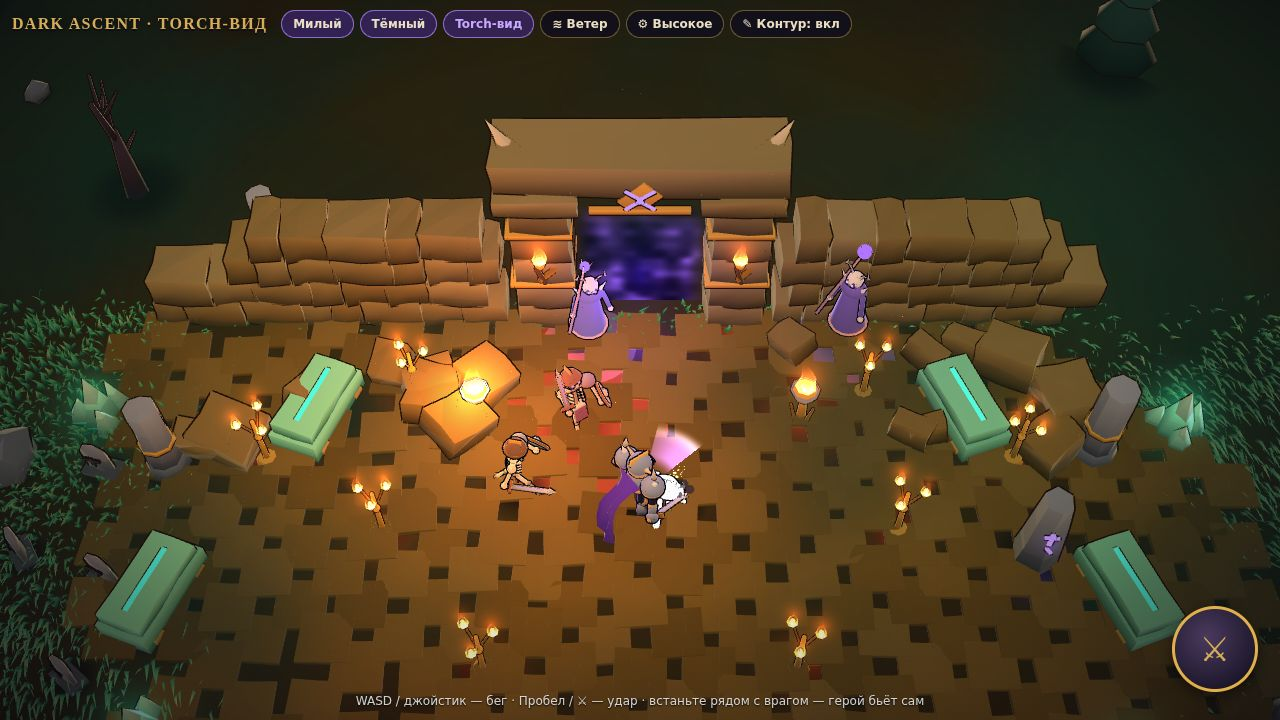
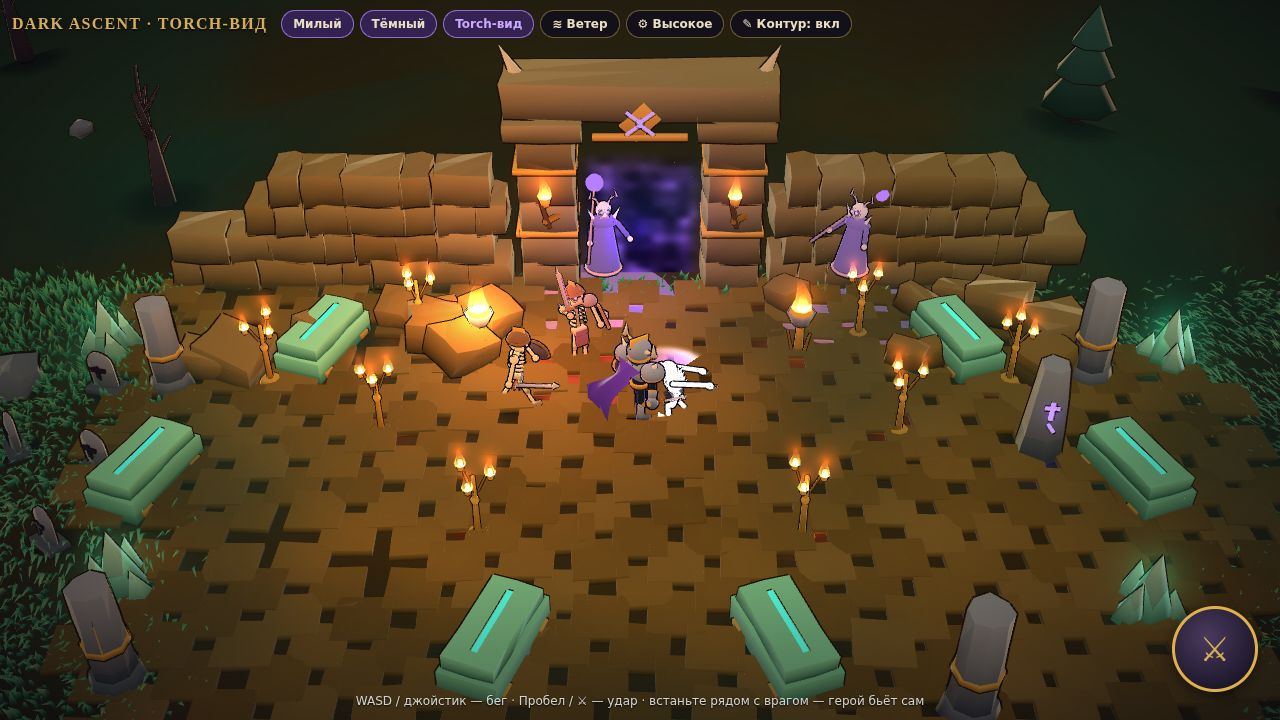
Make the lower forward-tilted camera the default Torch look; drop torch2 comparison page
Claude-Session: https://claude.ai/code/session_01MQCVpSgrSxb7Tpf8i263fP

diff --git a/lab/three/js/dark/main.js b/lab/three/js/dark/main.js
@@ -9,7 +9,7 @@ import { DarkHero } from './hero.js';
 import { Mobs } from './mobs.js';
 
 const params = new URLSearchParams(location.search);
-const LOOK = window.LOOK || params.get('look') || 'dark', TORCH = LOOK === 'torch', CAM2 = window.CAMV === 2;   // CAM2: lower, more forward-tilted camera, hero higher in frame
+const LOOK = window.LOOK || params.get('look') || 'dark', TORCH = LOOK === 'torch';
 const dpr = window.devicePixelRatio || 1;
 const canvas = document.getElementById('c');
 const renderer = new THREE.WebGLRenderer({ canvas, antialias: dpr < 2, powerPreference: 'high-performance', preserveDrawingBuffer: params.has('shot') });
@@ -56,9 +56,9 @@ ui.outline.onclick = () => { state.outlines = !state.outlines; applyOutlines(); 
 ui.wind.onclick = () => { state.wind = (state.wind + 1) % WIND.length; applyWind(); };
 
 // ---------- camera: hero sits in the lower third so the tall gate stays in frame ----------
-const CAM_YAW = Math.PI / 4, CAM_PITCH = CAM2 ? 0.64 : TORCH ? 0.8 : 0.74, AIM = CAM2 ? 1.0 : TORCH ? 4.2 : 2.6;
+const CAM_YAW = Math.PI / 4, CAM_PITCH = TORCH ? 0.64 : 0.74, AIM = TORCH ? 1.0 : 2.6   // torch: low, forward-tilted camera, hero high in frame;
 const camTarget = new THREE.Vector3();
-const BASE = CAM2 ? 30 : TORCH ? 28 : 15;
+const BASE = TORCH ? 30 : 15;
 let camDist = BASE, shake = 0;
 function resize() {
   const w = innerWidth, h = innerHeight; renderer.setSize(w, h, false); camera.aspect = w / h;

diff --git a/lab/three/torch.html b/lab/three/torch.html
@@ -35,7 +35,7 @@
 <button id="atk" aria-label="Атака">⚔</button>
 <div id="top">
   <h1>DARK ASCENT · TORCH-ВИД</h1>
-  <a id="bSwitch" href="index.html">Милый</a> <a href="dark.html">Тёмный</a> <a href="torch.html"><b>Torch-вид</b></a> <a href="torch2.html">Torch-вид 2</a>
+  <a id="bSwitch" href="index.html">Милый</a> <a href="dark.html">Тёмный</a> <a href="torch.html"><b>Torch-вид</b></a>
   <button id="bWind"></button>
   <button id="bQuality"></button>
   <button id="bOutline"></button>

diff --git a/lab/three/README.md b/lab/three/README.md
@@ -53,3 +53,9 @@ python3 -m http.server 8000
 | `js/dark/main.js` | свет (луна + один тёплый свет, который переходит к ближайшему факелу + один фиолетовый у арки), камера с героем в нижней трети, бой, хит-стоп, тряска |
 
 Параметры адреса: `?q=low|med|high`, `?mobs=0` (без мобов). Бюджет: ≈ 96 draw calls и ≈ 135 тыс. треугольников на высоком качестве (в первом прототипе ≈ 425 тыс.), без текстур. В общем коде расширены только `Cape` (параметры, экспорт) и `world.js` (экспорт шейдера травы), первый прототип работает как раньше.
+
+### Torch-вид (`torch.html`)
+Тот же код, но с `window.LOOK = "torch"`: тёплый булыжный склеп со свечами, бирюзовыми саркофагами и кристаллами. Камера низкая и наклонена вперёд (pitch ≈ 37°, дистанция 30), герой стоит выше центра кадра, снизу остаётся запас обзора.
+
+![torch](screens/torch_01_crypt.jpg)
+![torch бой](screens/torch_02_combat.jpg)
